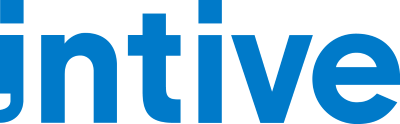
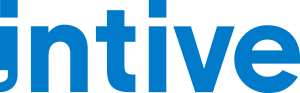
Minor adjustments in the clients section

diff --git a/source/styles/definitions.less b/source/styles/definitions.less
@@ -6,6 +6,9 @@
 @page-horizontal-margin: 10px;
 @page-desktop-width: 940px;
 
+@clients-entry-height: 75px;
+@clients-entry-width: 150px;
+
 @testimonials-icon: escape(~'<svg xmlns="http://www.w3.org/2000/svg" viewBox="0 0 24 24"><path fill="@{leading-color}" d="M2 9.352c0 1.873.849 2.943 1.683 3.943.031 1 .085 1.668-.333 3.183 1.748-.558 2.038-.778 3.008-1.374 1 .244 1.474.381 2.611.491-.094.708-.081 1.275.055 2.023-.752-.06-1.528-.178-2.33-.374-1.397.857-4.481 1.725-6.649 2.115.811-1.595 1.708-3.785 1.661-5.312-1.091-1.305-1.706-2.985-1.706-4.695 0-4.826 4.719-8.352 10-8.352 5.237 0 9.977 3.484 9.998 8.318-.644-.175-1.322-.277-2.021-.314-.229-3.34-3.713-6.004-7.977-6.004-4.411 0-8 2.85-8 6.352zm20.883 10.169c-.029 1.001.558 2.435 1.088 3.479-1.419-.258-3.438-.824-4.352-1.385-.772.188-1.514.274-2.213.274-3.865 0-6.498-2.643-6.498-5.442 0-3.174 3.11-5.467 6.546-5.467 3.457 0 6.546 2.309 6.546 5.467 0 1.12-.403 2.221-1.117 3.074zm-5.664-4.521h-2.219v2.222h.889c0 .491-.347 1.096-.887 1.3l.221.478c1.167-.231 1.996-1.09 1.996-2.358v-1.642zm3.115 0h-2.219v2.222h.885c0 .491-.348 1.096-.888 1.3l.222.478c1.167-.231 2-1.09 2-2.358v-1.642zm-7.561-4v-2.777h-1.111c0-.615.434-1.371 1.108-1.625l-.275-.598c-1.459.289-2.495 1.363-2.495 2.948v2.052h2.773zm-4 0v-2.777h-1.105c0-.615.435-1.371 1.109-1.625l-.277-.598c-1.458.289-2.5 1.363-2.5 2.948v2.052h2.773z"></path></svg>');
 @testimonials-icon-size: 48px;
 @testimonials-icon-horizontal-padding: 10px;

diff --git a/source/views/index.html b/source/views/index.html
@@ -49,8 +49,8 @@
                 <p>W swojej działalności stawiam na nawiązywanie długotrwałej współpracy opartej na wzajemnym zrozumieniu i zaufaniu. Jestem przekonany, że czas poświęcony na budowaniu partnerskiej relacji owocuje szerszym zrozumieniem specyfiki danego projektu oraz pełniejszym określeniem potrzeb kontrahenta, co umożliwia zaproponowanie i wdrożenie najkorzystniejszych rozwiązań. Zadowolenie moich klientów, którymi są zarówno przedsiębiorstwa krajowe, jak i zagraniczne korporacje, jest najlepszym potwierdzeniem słuszności tego podejścia.</p>
                 <p>Poniżej znajdziecie Państwo listę firm, które miałem przyjemność wesprzeć swoimi umiejętnościami i doświadczeniem.</p>
                 <ul>
-                    <li><a href="https://www.insert.com.pl"><img src="assets/insert.png" alt="InsERT S.A." /></a></li>
-                    <li><a href="https://www.intive.com"><img src="assets/intive.png" alt="intive" /></a></li>
+                    <li><a href="https://www.insert.com.pl" title="InsERT S.A."><img src="assets/insert.png" alt="" /></a></li>
+                    <li><a href="https://www.intive.com" title="intive GmbH"><img src="assets/intive.png" alt="" /></a></li>
                 </ul>
                 <section id="testimonials">
                     <h3>Rekomendacje</h3>

diff --git a/source/styles/main.less b/source/styles/main.less
@@ -200,23 +200,21 @@
         {
             align-items: center;
             display: flex;
-            height: 100px;
+            height: @clients-entry-height;
             opacity: 0.5;
-            transform: scale(0.8);
-            transition: opacity 0.5s ease, transform 0.5s ease;
-            width: 200px;
+            transition: opacity 0.5s ease;
+            width: @clients-entry-width;
 
             &:focus,
             &:hover
             {
                 opacity: 1;
-                transform: scale(1);
             }
         }
 
         li
         {
-            margin: 5px;
+            margin: 5px 20px;
         }
 
         ul
@@ -228,7 +226,8 @@
 
             img
             {
-                width: 200px;
+                max-height: @clients-entry-height;
+                max-width: @clients-entry-width;
             }
         }
     }
